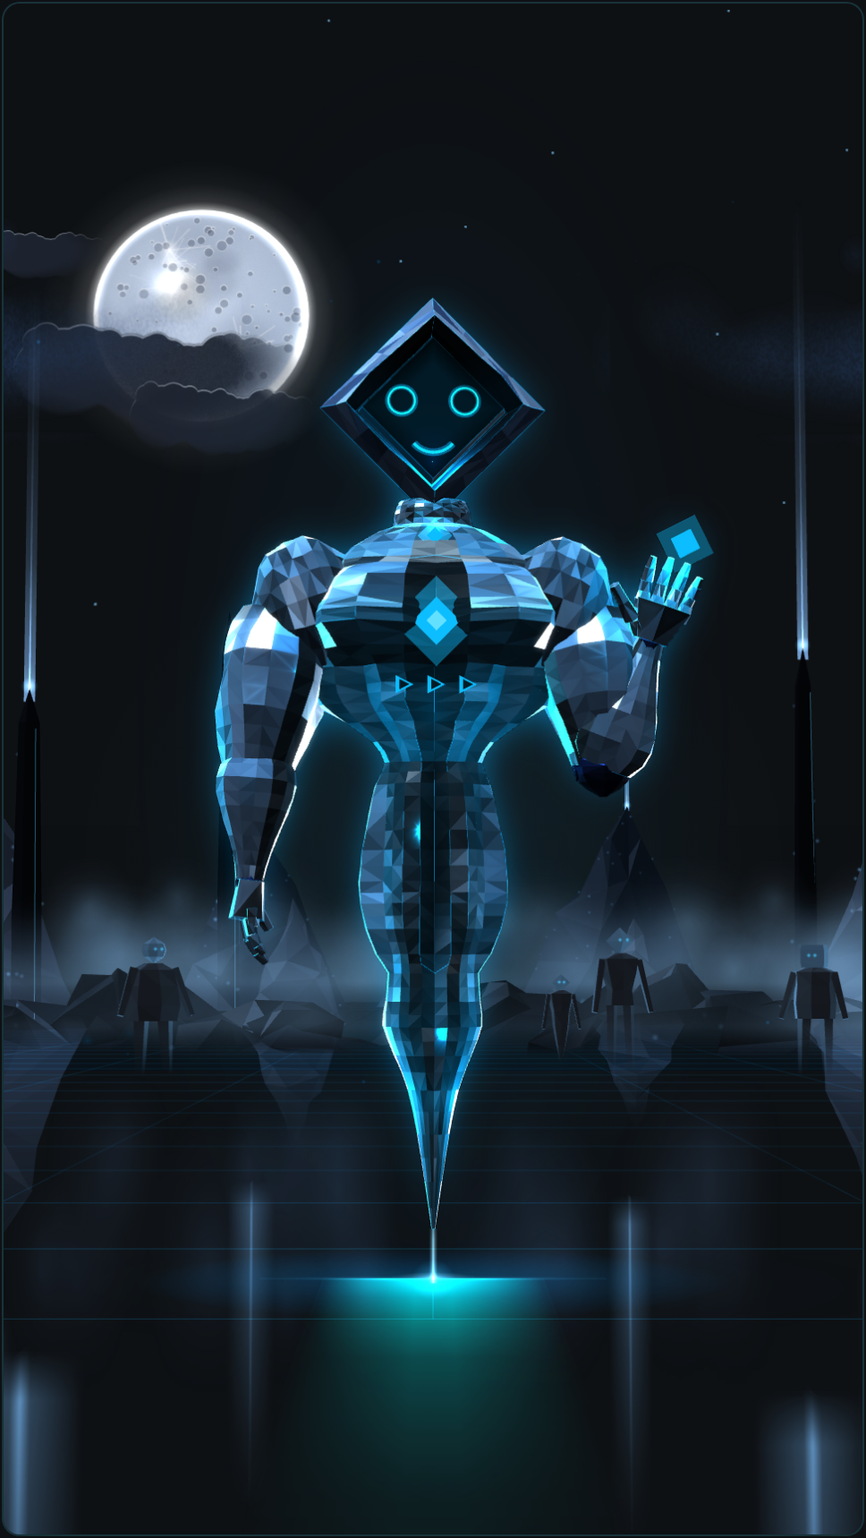
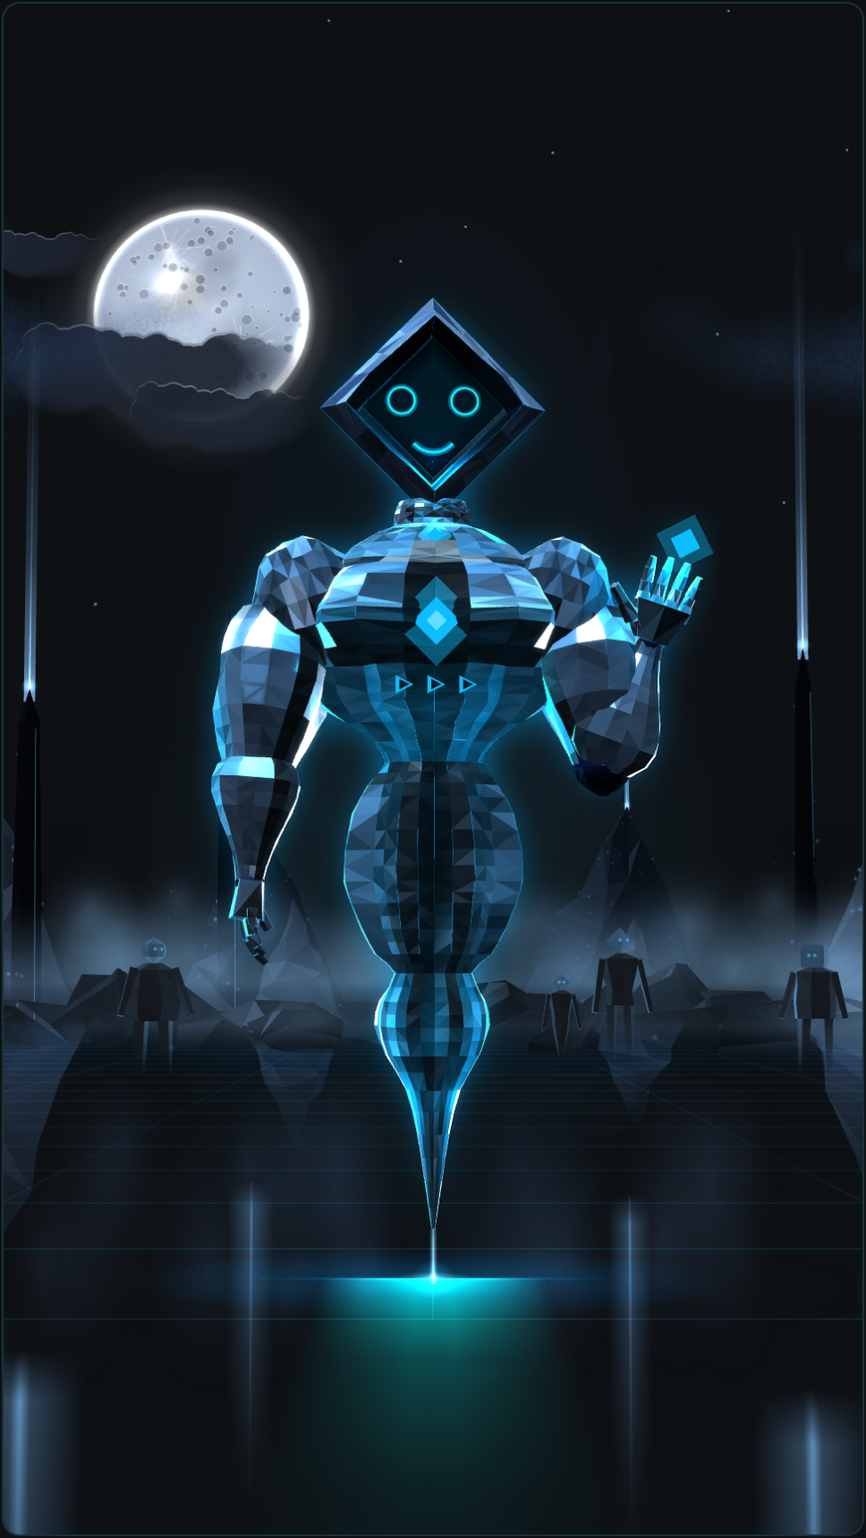
mrmah3d: R108 d — silhouette mass recovery, bulge-pinch-bulge lock
The mass-recovery brief read the R108 body as structure bought by removing
mass: a thigh that was a long taper from the belt to the point, an arm that
tapered continuously from the cap to the wrist, and a Mrs. Mah that was a
pear. Every narrow place is now a SHORT transition between two round
masses.

Mr. Mah's lower rows are re-authored bulge -> pinch -> bulge: the thigh
blooms straight out of the belt and bows (0.166 / 0.176 / 0.180 / 0.178 /
0.168 / 0.158 against a 0.150 belt; B/W 1.43 -> 1.71 front, 1.75 rear), a
hamstring bulge sits under the fold, the knee pinches to 0.124, the calf
blooms to 0.174 and the Achilles closes to the point. The arm profiles
carry the same law: a 1.14 upper-arm belly (0.164) into a 0.76 elbow pinch
(0.087), a forearm that starts inside it and blooms to 1.25 (0.128) before
a 0.58 wrist; the start radius and the belly are as full as before, so the
circumference is kept and only the joints narrowed. Mrs. Mah keeps her
3 : 1 waist-to-bust (2.99 front / 3.07 rear, arms hidden) but from
contour: hip bloom under the waist, glute and proximal-thigh apex, a 0.242
fold pinch, a 0.272 hamstring / quad bulge, a 0.130 knee, a 0.180 calf.

Facet groups on the lats, abs and thigh rows span four refined bands so the
lit lower back and quad read as strips along the muscle instead of rows
cut at every ring; a trial on the pec crown rows measured as nothing and
was reverted.

Static suite 376/376, verify 150/150 (112 draws, 14093 tris at tier high),
[…]

Changed region(s): [[0.3719, 0.4319, 0.6198, 0.7404], [0.2479, 0.401, 0.3719, 0.5553], [0.6198, 0.401, 0.7748, 0.4936]]

diff --git a/mrmah3d/core/character/proportions.js b/mrmah3d/core/character/proportions.js
@@ -1142,66 +1142,66 @@ export var TORSO = {
     /* THE ACHILLES: an aggressive narrowing under the calf — 0.106 of height
        at the calf to 0.056 here, 0.13 of height lower — easing into the
        straight cone below; a narrow tendon on the back with hollows beside it. */
-    { y: 0.440, w: 0.082, d: 0.072, fg: [2, 2], facet: 0.0020, zc: -0.004, crystal: 0.0140, crystalY: 0.0060, hero: 0.20,
+    { y: 0.440, w: 0.088, d: 0.078, fg: [2, 2], facet: 0.0020, zc: -0.004, crystal: 0.0140, crystalY: 0.0060, hero: 0.20,
       shape: lowerLegShape({ notch: 0.03, shins: 0.03, tendon: 0.06, hollow: 0.06, soleus: 0.04 }), columns: true, classesAt: taperClasses },
     /* THE SOLEUS: wider and lower than the gastrocnemius heads, so the calf's
        lower edge is a second, flatter swell rather than the end of a bulb;
        the medial head still carries 0.22 here so the belly falls away over
        two rings instead of cornering on one (the side view showed a beak). */
-    { y: 0.550, w: 0.124, d: 0.126, fg: [2, 2], facet: -0.0020, zc: -0.010, crystal: 0.0150, crystalY: 0.0060, hero: 0.22,
+    { y: 0.550, w: 0.150, d: 0.148, fg: [2, 2], facet: -0.0020, zc: -0.010, crystal: 0.0150, crystalY: 0.0060, hero: 0.22,
       shape: lowerLegShape({ notch: 0.03, shins: 0.04, medial: 0.22, lateral: 0.06, cleft: 0.08, soleus: 0.14 }), columns: true, classesAt: taperClasses },
     /* THE GASTROCNEMIUS: the medial head peaks here (large, near the centre),
        the lateral head one ring higher (smaller, further out) — asymmetric
        within each half, symmetric across the body. In silhouette the calf
        is only 7% wider than the knee (the plate's is 5%); its identity is
        posterior depth, +30% on the medial head. */
-    { y: 0.640, w: 0.157, d: 0.142, fg: [1, 2], facet: 0.0020, zc: -0.012, crystal: 0.0160, crystalY: 0.0070, hero: 0.26,
-      shape: lowerLegShape({ notch: 0.03, shins: 0.04, medial: 0.30, lateral: 0.14, cleft: 0.10, soleus: 0.06 }), columns: true, classesAt: taperClasses },
-    { y: 0.720, w: 0.152, d: 0.138, fg: [1, 2], facet: -0.0020, crystal: 0.0150, crystalY: 0.0060, hero: 0.16,
-      shape: lowerLegShape({ notch: 0.03, shins: 0.04, medial: 0.22, lateral: 0.16, cleft: 0.06 }), columns: true, classesAt: taperClasses },
+    { y: 0.640, w: 0.174, d: 0.170, fg: [1, 2],   /* R108 d: the CALF BLOOM — 0.157 -> 0.174, 38% over the knee */ facet: 0.0020, zc: -0.012, crystal: 0.0160, crystalY: 0.0070, hero: 0.26,
+      shape: lowerLegShape({ notch: 0.03, shins: 0.04, medial: 0.34, lateral: 0.20, cleft: 0.10, soleus: 0.06 }), columns: true, classesAt: taperClasses },
+    { y: 0.720, w: 0.164, d: 0.160, fg: [1, 2], facet: -0.0020, crystal: 0.0150, crystalY: 0.0060, hero: 0.16,
+      shape: lowerLegShape({ notch: 0.03, shins: 0.04, medial: 0.24, lateral: 0.22, cleft: 0.06 }), columns: true, classesAt: taperClasses },
     /* THE KNEE: the compression between the thigh's long descent and the
        calf's swell — 0.099 of height, read in depth (the pit behind, the
        cavity term) more than in width. Its FRONT is not a notch: from the
        side the line from thigh to shin runs nearly straight over the
        patellae and the concavity is behind (the first cut notched the front
        too and the side view showed a corner). */
-    { y: 0.810, w: 0.146, d: 0.144, fg: [1, 2], facet: 0.0020, zc: 0.008, crystal: 0.0130, crystalY: 0.0050, hero: 0.08,
+    { y: 0.810, w: 0.124, d: 0.126, fg: [1, 2],   /* R108 d: the knee PINCH — 0.146 -> 0.124, a short narrow transition between two masses */ facet: 0.0020, zc: 0.008, crystal: 0.0130, crystalY: 0.0050, hero: 0.08,
       shape: lowerLegShape({ notch: 0.05, caps: 0.06, pit: 0.06, medial: 0.04, cleft: 0.04 }), columns: true, classesAt: taperClasses, cav: 0.35 },
     /* THE LOWER THIGH: the VL inserting toward the knee (0.24), the RF
        tendon fading (0.12) and the VASTUS MEDIALIS teardrop taking over
        medial and low (0.20) — the one belly that lives only here. The
        hamstrings end into the knee behind. */
-    { y: 0.870, w: 0.148, d: 0.156, fg: [1, 2], facet: -0.0030, zc: 0.012, crystal: 0.0200, crystalY: 0.0070, hero: 0.18,
-      shape: thighShape({ seam: 0.22, head: 0.04, vl: 0.28, valley: 0.06, vm: 0.28, itb: 0.04, ham: 0.20, hamCleft: 0.10 }), columns: true, classesAt: taperClasses },
+    { y: 0.870, w: 0.146, d: 0.162, fg: [1, 2], facet: -0.0030, zc: 0.012, crystal: 0.0200, crystalY: 0.0070, hero: 0.18,
+      shape: thighShape({ seam: 0.22, head: 0.06, vl: 0.32, valley: 0.06, vm: 0.30, itb: 0.04, ham: 0.22, hamCleft: 0.10 }), columns: true, classesAt: taperClasses },
     /* THE LONG DESCENT: from the apex the VL falls away (0.62 -> 0.40) while
        the RF holds its belly; the hamstring columns peak here under the fold. */
-    { y: 0.950, w: 0.150, d: 0.176, fg: [1, 3], facet: 0.0040, zc: 0.008, crystal: 0.0300, crystalY: 0.0070, hero: 0.20,
-      shape: thighShape({ seam: 0.25, head: 0.24, rf: 0.08, vl: 0.48, valley: 0.10, vm: 0.14, itb: 0.06, ham: 0.26, hamCleft: 0.12 }), columns: true, classesAt: taperClasses },
+    { y: 0.950, w: 0.158, d: 0.190, fg: [1, 4], facet: 0.0040, zc: 0.008, crystal: 0.0300, crystalY: 0.0070, hero: 0.20,
+      shape: thighShape({ seam: 0.25, head: 0.26, rf: 0.08, vl: 0.50, valley: 0.10, vm: 0.14, itb: 0.06, ham: 0.36, hamCleft: 0.14 }), columns: true, classesAt: taperClasses },   /* R108 d: the HAMSTRING is its own bulge under the fold */
     /* THE GLUTEAL FOLD: the glute goes NEGATIVE here (a crease under the
        mass, darkened by the ring's cav where the multiplier is at or under
        1 — the front bellies sit above 1 and take none of it) and the
        hamstrings begin under it. */
-    { y: 1.030, w: 0.151, d: 0.186, fg: [1, 3], facet: -0.0040, crystal: 0.0300, crystalY: 0.0070, hero: 0.14,
-      shape: thighShape({ seam: 0.26, head: 0.30, rf: 0.10, vl: 0.60, valley: 0.12, vm: 0.04, itb: 0.06, glute: -0.05, gluteC: 0.52, gluteW: 0.42, ham: 0.08, hamCleft: 0.10 }), columns: true, classesAt: taperClasses, cav: 0.25 },
+    { y: 1.030, w: 0.168, d: 0.198, fg: [1, 4], facet: -0.0040, crystal: 0.0300, crystalY: 0.0070, hero: 0.14,
+      shape: thighShape({ seam: 0.26, head: 0.30, rf: 0.10, vl: 0.62, valley: 0.12, vm: 0.04, itb: 0.06, glute: -0.05, gluteC: 0.52, gluteW: 0.42, ham: 0.18, hamCleft: 0.12 }), columns: true, classesAt: taperClasses, cav: 0.25 },
     /* THE LATERAL APEX: the VL's belly (0.62) makes the widest row — 0.162 of
        height, 1.50 x the belt — on a base ring no wider than the belt's. */
-    { y: 1.100, w: 0.152, d: 0.192, fg: [1, 3], facet: 0.0045, zc: -0.012, crystal: 0.0360, crystalY: 0.0090, hero: 0.22,
-      shape: thighShape({ seam: 0.26, head: 0.30, rf: 0.10, vl: 0.62, valley: 0.12, itb: 0.06, glute: 0.16, gluteC: 0.50, gluteW: 0.38, cleft: 0.30, ham: 0.05 }), columns: false, classesAt: null, zoneAt: quadZone(1), coat: 1.0 },
+    { y: 1.100, w: 0.178, d: 0.208, fg: [1, 4], facet: 0.0045, zc: -0.012, crystal: 0.0360, crystalY: 0.0090, hero: 0.22,
+      shape: thighShape({ seam: 0.26, head: 0.32, rf: 0.10, vl: 0.66, valley: 0.12, itb: 0.06, glute: 0.16, gluteC: 0.50, gluteW: 0.38, cleft: 0.30, ham: 0.08 }), columns: false, classesAt: null, zoneAt: quadZone(1), coat: 1.0 },   /* R108 d: the APEX — 0.265 at the silhouette, about 1.6 x the belt; huge distinct quads, then a pinch */
     /* The VL still rising here; the apex is one row down (round 5 moved it
        from 1.200 to 1.100 so the expansion out of the belt is RESTRAINED and
        the apex sits in the mid thigh, the brief's sequence). */
-    { y: 1.200, w: 0.153, d: 0.196, fg: [1, 3], facet: -0.0045, zc: -0.024, crystal: 0.0360, crystalY: 0.0090, hero: 0.22,
-      shape: thighShape({ seam: 0.26, head: 0.28, rf: 0.10, vl: 0.54, valley: 0.12, itb: 0.05, glute: 0.36, gluteC: 0.58, gluteW: 0.52, cleft: 0.48 }), columns: false, classesAt: null, zoneAt: quadZone(1), coat: 1.0 },
+    { y: 1.200, w: 0.180, d: 0.210, fg: [1, 4], facet: -0.0045, zc: -0.024, crystal: 0.0360, crystalY: 0.0090, hero: 0.22,   /* R108 d round b: the sweep BOWS — the column (0.170 / 0.168 / 0.166 / 0.165) read as the torso continuing; the widest row is here and the rows either side fall away from it */
+      shape: thighShape({ seam: 0.26, head: 0.30, rf: 0.10, vl: 0.62, valley: 0.12, itb: 0.05, glute: 0.38, gluteC: 0.58, gluteW: 0.52, cleft: 0.48 }), columns: false, classesAt: null, zoneAt: quadZone(1), coat: 1.0 },
     /* THE GLUTE SHELF: the pair is fullest here, 35 degrees off the back with
        the cleft's centre vertex at half the ring, and the RF / VL are rising
        out of their origins under the belt. */
-    { y: 1.320, w: 0.157, d: 0.186, fg: [1, 3], facet: 0.0045, zc: -0.032, crystal: 0.0360, crystalY: 0.0090, hero: 0.16,
-      shape: thighShape({ seam: 0.20, head: 0.20, rf: 0.07, vl: 0.34, valley: 0.10, glute: 0.42, gluteC: 0.62, gluteW: 0.55, cleft: 0.50 }), zoneAt: quadZone(0) },
+    { y: 1.320, w: 0.176, d: 0.200, fg: [1, 4], facet: 0.0045, zc: -0.032, crystal: 0.0360, crystalY: 0.0090, hero: 0.16,
+      shape: thighShape({ seam: 0.20, head: 0.22, rf: 0.07, vl: 0.52, valley: 0.10, glute: 0.44, gluteC: 0.62, gluteW: 0.55, cleft: 0.50 }), zoneAt: quadZone(0) },
     /* THE UPPER GLUTE / GLUTE MEDIUS: a restrained expansion out of the belt
        (0.108 -> 0.133 of height in 0.07), the glute already a shelf behind
        and sitting LATERAL here — the upper shelf ties into the hip. */
-    { y: 1.410, w: 0.160, d: 0.170, fg: [1, 3], facet: 0.0035, zc: -0.026, crystal: 0.0300, crystalY: 0.0080, hero: 0.10,
-      shape: thighShape({ seam: 0.12, head: 0.12, rf: 0.03, vl: 0.18, valley: 0.06, glute: 0.30, gluteC: 0.70, gluteW: 0.50, cleft: 0.30 }), zoneAt: quadZone(0) },
+    { y: 1.410, w: 0.166, d: 0.180, fg: [1, 4], facet: 0.0035, zc: -0.026, crystal: 0.0300, crystalY: 0.0080, hero: 0.10,
+      shape: thighShape({ seam: 0.12, head: 0.14, rf: 0.03, vl: 0.30, valley: 0.06, glute: 0.32, gluteC: 0.70, gluteW: 0.50, cleft: 0.30 }), zoneAt: quadZone(0) },   /* R108 d: the thigh BLOOMS straight out of the belt — the waist is a short transition, not a region */
     /* THE BELT — the waist. The deepest concavity on the character, and the
        line that separates the torso from the single quad. Re-measured on the
        lower-body crop it is TIGHTER than the abdomen above it (0.19 against
@@ -1234,19 +1234,19 @@ export var TORSO = {
        rows descend (obliqueShift 0.36 -> 0), the diagonal side-body sweep;
        the lumbar erectors are the tallest thing on the lower back
        (erector 0.30 against a 0.34 channel) and fade upward. */
-    { y: 1.545, w: 0.184, d: 0.150, fg: [1, 2], facet: 0.0040, crystal: 0.0220, crystalY: 0.0050,
+    { y: 1.545, w: 0.184, d: 0.150, fg: [1, 4], facet: 0.0040, crystal: 0.0220, crystalY: 0.0050,
       shape: coreShape(1.0, 0.26, 0.0, 0.0, 0.34, { obliqueShift: 0.0, oblique: 0.14, spine: 0.34, valley: 0.14, erectorAt: 0.36, erectorW: 0.25, latBack: 0.08 }), hero: 0.08, zoneAt: coreZone(1) },
-    { y: 1.605, w: 0.250, d: 0.160, fg: [1, 2], facet: -0.0040, crystal: 0.0220, crystalY: 0.0050,
+    { y: 1.605, w: 0.250, d: 0.160, fg: [1, 4], facet: -0.0040, crystal: 0.0220, crystalY: 0.0050,
       shape: coreShape(1.0, 0.08, 0.10, 0.34, 0.34, { obliqueShift: 0.10, oblique: 0.14, spine: 0.34, valley: 0.14, erectorAt: 0.36, erectorW: 0.25, latBack: 0.14 }), hero: 0.03, zoneAt: coreZone(1), cav: 0.75 },   /* R102: abdominal crease */
-    { y: 1.665, w: 0.310, d: 0.176, fg: [1, 2], facet: 0.0040, crystal: 0.0240, crystalY: 0.0050,
+    { y: 1.665, w: 0.310, d: 0.176, fg: [1, 4], facet: 0.0040, crystal: 0.0240, crystalY: 0.0050,
       shape: coreShape(0.95, 0.26, 0.26, 0.24, 0.28, { obliqueShift: 0.18, oblique: 0.14, spine: 0.32, valley: 0.14, erectorAt: 0.34, erectorW: 0.24, latBack: 0.22 }), hero: 0.08, zoneAt: coreZone(2) },
-    { y: 1.725, w: 0.330, d: 0.198, fg: [1, 2], facet: -0.0040, crystal: 0.0240, crystalY: 0.0050,
+    { y: 1.725, w: 0.330, d: 0.198, fg: [1, 4], facet: -0.0040, crystal: 0.0240, crystalY: 0.0050,
       shape: coreShape(0.90, 0.08, 0.36, 0.12, 0.22, { obliqueShift: 0.26, oblique: 0.12, spine: 0.28, serratus: 0.035, serratusAt: 1.05, erectorAt: 0.32, erectorW: 0.22, valley: 0.16, valleyAt: 0.55, latBack: 0.32 }), hero: 0.03, zoneAt: coreZone(2), cav: 0.75 },   /* R102: abdominal crease */
     /* the lat hands over to chestShape's lat on the ring above at the SAME
        strength (0.34 here against 0.33 there): R108's first cut had 0.52
        against 0.30, and the flank normal flipped from facing down to facing
        up across 0.05 of height — a ledge on top of the lat. */
-    { y: 1.780, w: 0.342, d: 0.222, fg: [1, 2], facet: 0.0040, crystal: 0.0260, crystalY: 0.0060,
+    { y: 1.780, w: 0.342, d: 0.222, fg: [1, 4], facet: 0.0040, crystal: 0.0260, crystalY: 0.0060,
       shape: coreShape(0.85, 0.24, 0.34, 0.0, 0.18, { obliqueShift: 0.36, oblique: 0.06, spine: 0.26, serratus: 0.035, serratusAt: 1.20, erectorAt: 0.32, erectorW: 0.22, valley: 0.16, valleyAt: 0.55, latBack: 0.36 }), hero: 0.08, zoneAt: coreZone(3) },
     /* R97 — THE LOWER PEC TURN: a crease ring where the chest shelf ends and
        a belly ring above it, so the pectoral is a mass with a lower edge
@@ -1664,7 +1664,14 @@ export var ARMS = {
          — the arm was the broadest mass, and the director's order is broad
          delt -> tuck -> belly. The ball's roundness is the front / rear
          bellies' job (shapes.upper); the profile only sets the side width. */
-      return 0.90 + Math.pow(Math.sin(Math.pow(t, 0.80) * Math.PI), 1.3) * 0.20 - Math.pow(t, 1.5) * 0.10;   /* round 4: 0.80 at the end — the last band turned in so steeply it read as a dark ring at the joint */
+      /* R108 d — BULGE -> PINCH -> BULGE. The mass-recovery brief rules out a
+         continuous taper from the cap to the wrist: the upper arm is a HUGE
+         round belly (1.14 at t 0.40, so the belly is 0.16 against the cap's
+         0.228 — big, and still under the delt), and the elbow is a CLEAR,
+         SHORT pinch (0.76 at the end, 0.087) that the forearm's own bloom
+         then climbs out of. The circumference was not traded for it: the
+         start (0.90) and the peak are as full as or fuller than R108 c. */
+      return 0.90 + Math.pow(Math.sin(Math.pow(t, 0.80) * Math.PI), 1.3) * 0.28 - Math.pow(t, 1.5) * 0.14;
     },
     /* Picks up close to where the upper arm ended — a step at the elbow reads
        as an error rather than as a joint — then swells just below it and tapers
@@ -1684,7 +1691,12 @@ export var ARMS = {
          continuous to 0.62 (0.046): BIG -> NARROWER -> BIG -> TAPER. */
       /* round 2: the belly is CONVEX and the taper CONCAVE (sin^1.6 against a
          t^1.3 fall) — a straight line from the peak to the wrist is a club. */
-      return 0.79 + Math.pow(Math.sin(Math.pow(t, 0.55) * Math.PI), 1.6) * 0.37 - Math.pow(t, 1.3) * 0.22;   /* round 4: the first ring sits INSIDE the upper arm's buried end (0.0885 under 0.091) */
+      /* R108 d — the forearm is its OWN bulge, not the upper arm's tail. It
+         starts at 0.77 (0.086, inside the upper arm's 0.087 end), BLOOMS to
+         1.25 at t 0.28 (0.126 — 1.45x the elbow pinch and 0.8 of the upper
+         belly, the reference's forearm-to-upper-arm), and pinches to a 0.58
+         wrist (0.043). The bloom is convex and the fall concave, as before. */
+      return 0.77 + Math.pow(Math.sin(Math.pow(t, 0.55) * Math.PI), 1.6) * 0.51 - Math.pow(t, 1.3) * 0.19;
     }
   },
 

diff --git a/mrmah3d/core/character/variants.js b/mrmah3d/core/character/variants.js
@@ -102,50 +102,50 @@ function femaleProportions() {
        -> ONE point. */
     { y: 0.000, w: 0.006, d: 0.004, fg: [2, 2], columns: true, classesAt: taper },
     { y: 0.150, w: 0.026, d: 0.020, fg: [2, 2], facet: 0.0060, crystal: 0.0180, crystalY: 0.0040, columns: true, classesAt: taper },
-    { y: 0.400, w: 0.066, d: 0.054, fg: [2, 2], facet: -0.0060, crystal: 0.0240, crystalY: 0.0060, hero: 0.20, columns: true, classesAt: taper },
+    { y: 0.400, w: 0.062, d: 0.052, fg: [2, 2], facet: -0.0060, crystal: 0.0240, crystalY: 0.0060, hero: 0.20, columns: true, classesAt: taper },
     /* the Achilles compression under the calf: 0.31 of the hip at t 0.81 */
-    { y: 0.560, w: 0.108, d: 0.090, fg: [2, 2], facet: 0.0050, crystal: 0.0260, crystalY: 0.0060, hero: 0.22,
+    { y: 0.560, w: 0.132, d: 0.116, fg: [2, 2], facet: 0.0050, crystal: 0.0260, crystalY: 0.0060, hero: 0.22,
       shape: S.calfShape(0.50), columns: true, classesAt: taper },
     /* the calf — the secondary sweep. Its mass is POSTERIOR (calfShape's
        gastrocnemius bellies), so from the front the width barely exceeds the
        knee's and the outline is one long taper with a slower passage; a first
        cut 15% wider than the knee made the knee a groove all round with a
        bead under it (a ring narrower than both neighbours is a groove) */
-    { y: 0.650, w: 0.150, d: 0.140, fg: [1, 2], facet: -0.0055, crystal: 0.0280, crystalY: 0.0070, hero: 0.26,
+    { y: 0.650, w: 0.180, d: 0.170, fg: [1, 2],   /* R108 d: the CALF BLOOM */ facet: -0.0055, crystal: 0.0280, crystalY: 0.0070, hero: 0.26,
       shape: S.calfShape(1.0), columns: true, classesAt: taper },
-    { y: 0.740, w: 0.152, d: 0.134, fg: [1, 2], facet: 0.0050, crystal: 0.0260, crystalY: 0.0060, hero: 0.16,
+    { y: 0.740, w: 0.170, d: 0.156, fg: [1, 2], facet: 0.0050, crystal: 0.0260, crystalY: 0.0060, hero: 0.16,
       shape: S.calfShape(0.90), columns: true, classesAt: taper },
     /* the knee — the controlled compression, read in depth by kneeShape's
        notch; in width it is an inflection of the taper, not a band */
-    { y: 0.820, w: 0.152, d: 0.128, fg: [1, 2], facet: -0.0045, crystal: 0.0220, crystalY: 0.0050, hero: 0.08,
+    { y: 0.820, w: 0.130, d: 0.120, fg: [1, 2],   /* R108 d: the knee PINCH */ facet: -0.0045, crystal: 0.0220, crystalY: 0.0050, hero: 0.08,
       shape: S.kneeShape(0.80), columns: true, classesAt: taper, cav: 0.35 },   /* R108: softer than the male's — at 1.0 / 0.45 it read as a joint ring from behind */
     /* the long quad / hamstring sweep: quad heads and seam at full strength,
        two hamstring columns behind (their depth carries the posterior thigh
        back out under the fold), no glute */
-    { y: 0.910, w: 0.188, d: 0.170, fg: [1, 3], facet: -0.0050, crystal: 0.0300, crystalY: 0.0070, hero: 0.18,
+    { y: 0.910, w: 0.205, d: 0.186, fg: [1, 3], facet: -0.0050, crystal: 0.0300, crystalY: 0.0070, hero: 0.18,
       shape: hipShape(0.70, 0.0, 0.95, 0.70), columns: true, classesAt: taper },
-    { y: 1.040, w: 0.232, d: 0.220, fg: [1, 3], facet: 0.0055, crystal: 0.0300, crystalY: 0.0070, hero: 0.20,
+    { y: 1.040, w: 0.272, d: 0.250, fg: [1, 3],   /* R108 d: the hamstring / quad BULGE — wider than the fold above it (round b: 0.264 -> 0.272 against a 0.242 fold, so the second bulge reads from the front too) */ facet: 0.0055, crystal: 0.0300, crystalY: 0.0070, hero: 0.20,
       shape: hipShape(0.85, 0.0, 1.0, 1.0), columns: true, classesAt: taper },
     /* the glute FOLD: the posterior pair falls from 1.0 to 0.25 between this
        ring and the one above, so the dome's underside turns in over the
        hamstring columns that begin here; the crease is a cavity, not a slot */
-    { y: 1.185, w: 0.262, d: 0.214, fg: [1, 3], facet: 0.0070, zc: -0.012, crystal: 0.0340, crystalY: 0.0090, hero: 0.22,
+    { y: 1.185, w: 0.242, d: 0.210, fg: [1, 3],   /* R108 d: the FOLD is a short pinch between the glute and the hamstring bulge */ facet: 0.0070, zc: -0.012, crystal: 0.0340, crystalY: 0.0090, hero: 0.22,
       shape: hipShape(0.95, 0.25, 0.85, 0.60), columns: false, classesAt: null, zoneAt: S.quadZone(1), cav: 0.55 },
     /* the lower glute curvature — still full behind, the quad beginning in front */
-    { y: 1.300, w: 0.300, d: 0.272, fg: [1, 3], facet: -0.0060, zc: -0.030, crystal: 0.0340, crystalY: 0.0090, hero: 0.20,
+    { y: 1.300, w: 0.305, d: 0.278, fg: [1, 3], facet: -0.0060, zc: -0.030, crystal: 0.0340, crystalY: 0.0090, hero: 0.20,
       shape: hipShape(1.0, 1.0, 0.60), zoneAt: S.quadZone(1), cav: 0.20 },
     /* the muscle-bust APEX — widest below the waist, maximum posterior projection */
     { y: 1.430, w: 0.315, d: 0.292, fg: [1, 3], facet: -0.0070, zc: -0.035, crystal: 0.0340, crystalY: 0.0090, hero: 0.16,
       shape: hipShape(1.0, 1.0, 0.40), zoneAt: S.quadZone(0) },
     /* the glute SHELF and the outward acceleration out of the pelvis: the
        pair is already FULL here, one ring under the transition */
-    { y: 1.545, w: 0.262, d: 0.236, fg: [1, 3], facet: 0.0050, zc: -0.025, crystal: 0.0280, crystalY: 0.0070, hero: 0.10,
+    { y: 1.545, w: 0.280, d: 0.250, fg: [1, 3], facet: 0.0050, zc: -0.025, crystal: 0.0280, crystalY: 0.0070, hero: 0.10,
       shape: hipShape(0.95, 1.0, 0.30), zoneAt: S.quadZone(0) },
     /* the gradual pelvic transition out of the waist — NO glute yet (the
        lower back is still the lumbar plane), so the shelf is the step to the
        full pair one ring down; with 0.30 of the pair here the spline rounded
        the shelf into a dome that began at the waist */
-    { y: 1.625, w: 0.176, d: 0.160, fg: [1, 3], facet: -0.0050, zc: -0.010, crystal: 0.0240, crystalY: 0.0060, hero: 0.06,
+    { y: 1.625, w: 0.200, d: 0.180, fg: [1, 3],   /* R108 d: the bloom begins straight under the waist */ facet: -0.0050, zc: -0.010, crystal: 0.0240, crystalY: 0.0060, hero: 0.06,
       shape: hipShape(0.60, 0.0, 0.25), zoneAt: S.coreZone(0) },
     /* THE WAIST — higher and tighter than his (R102: 0.30 of her shoulders) */
     { y: 1.690, w: 0.118, d: 0.108, fg: [1, 1], facet: -0.0060, crystal: 0.0240, crystalY: 0.0060,

diff --git a/CLAUDE.md b/CLAUDE.md
@@ -1596,3 +1596,39 @@ grooves, a flexor and extensor swapping sides between the two arms, the
 forearm swallowed into a hip measurement); and no sculptor was allowed to
 edit the tests, so every pinned literal surfaced at the merge as a
 failing contract to be re-authored, never silently loosened.
+
+### Mass is never traded for definition; a pinch is a transition, not a region (R108 d)
+
+The mass-recovery brief read the R108 body as "more structure by removing
+mass": the male thigh a long taper from a belt to a point, the arm a
+continuous taper from the cap to the wrist, Mrs. Mah a pear. Its rule is
+BULGE -> PINCH -> BULGE -> PINCH, never bulge -> long taper -> point, and
+the narrow places are SHORT. Three things about authoring that:
+
+- **A ring table whose widths hold constant is a column, and a column
+  reads as the torso continuing.** The male thigh at 0.170 / 0.168 /
+  0.166 / 0.165 was 1.58 x the belt and still read as a tube; bowing it
+  (0.166 -> 0.176 -> 0.180 -> 0.178 -> 0.168 -> 0.158, then a 0.124 knee
+  and a 0.174 calf) made it a bloom at 1.71 x. The eye reads the second
+  derivative of the outline, not its ratio to the waist.
+- **A limb profile has to fall BELOW where the next segment begins, and
+  the next segment has to climb back out.** The upper arm now ends at
+  0.76 of its lerped radius (0.087) after a 1.14 belly (0.164), and the
+  forearm starts inside that (0.086) and blooms to 1.25 (0.128) a quarter
+  of the way down before pinching to a 0.58 wrist. Belly : elbow : bloom
+  : wrist is 1.9 : 1 : 1.5 : 0.5, and the same profile carries Mrs. Mah's
+  arms at her radii. The circumference did not move — the start radius
+  and the belly are as full as before; only the JOINTS narrowed.
+- **The measurement tool cannot see a pinch it was not told about.** The
+  refwidth landmark set names a waist, a hip, a knee and a calf; the
+  knee it reports (0.072) is the taper under the calf, not the 0.124 ring.
+  Judge the knee and the elbow on the clay, and measure only the ratios
+  the tool has landmarks for (male B/W 1.71 front / 1.75 rear; Mrs. Mah
+  2.99 / 3.07 with the arms hidden).
+
+Facet groups on the lats, abs and thighs went from one or two bands to
+FOUR, so a strip spans two authored rings and the lit lower back and quad
+read as columns along the muscle instead of rows cut at every ring. The
+same change on the pec crown rows measured as nothing — the pec's rows
+are named per band by `pecZone`, so its seams are class boundaries, not
+group boundaries — and was reverted rather than kept as noise.
